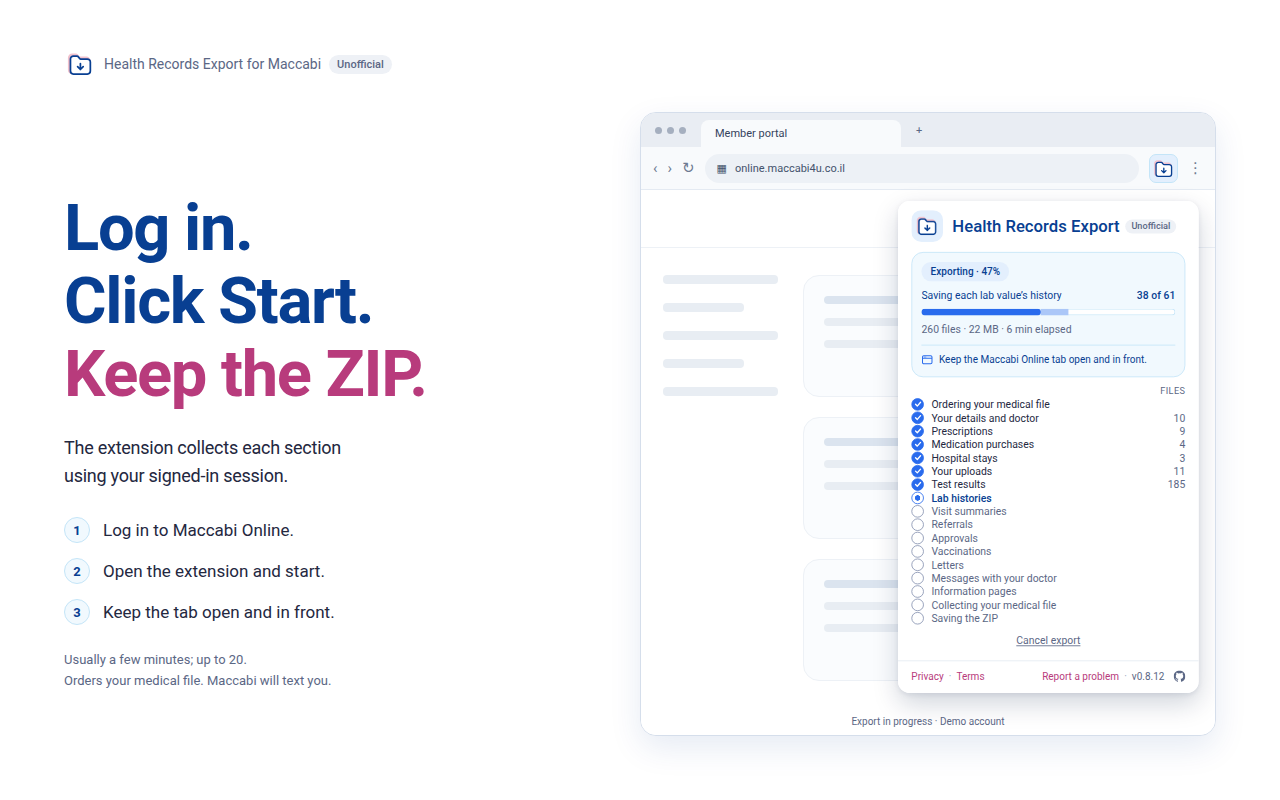
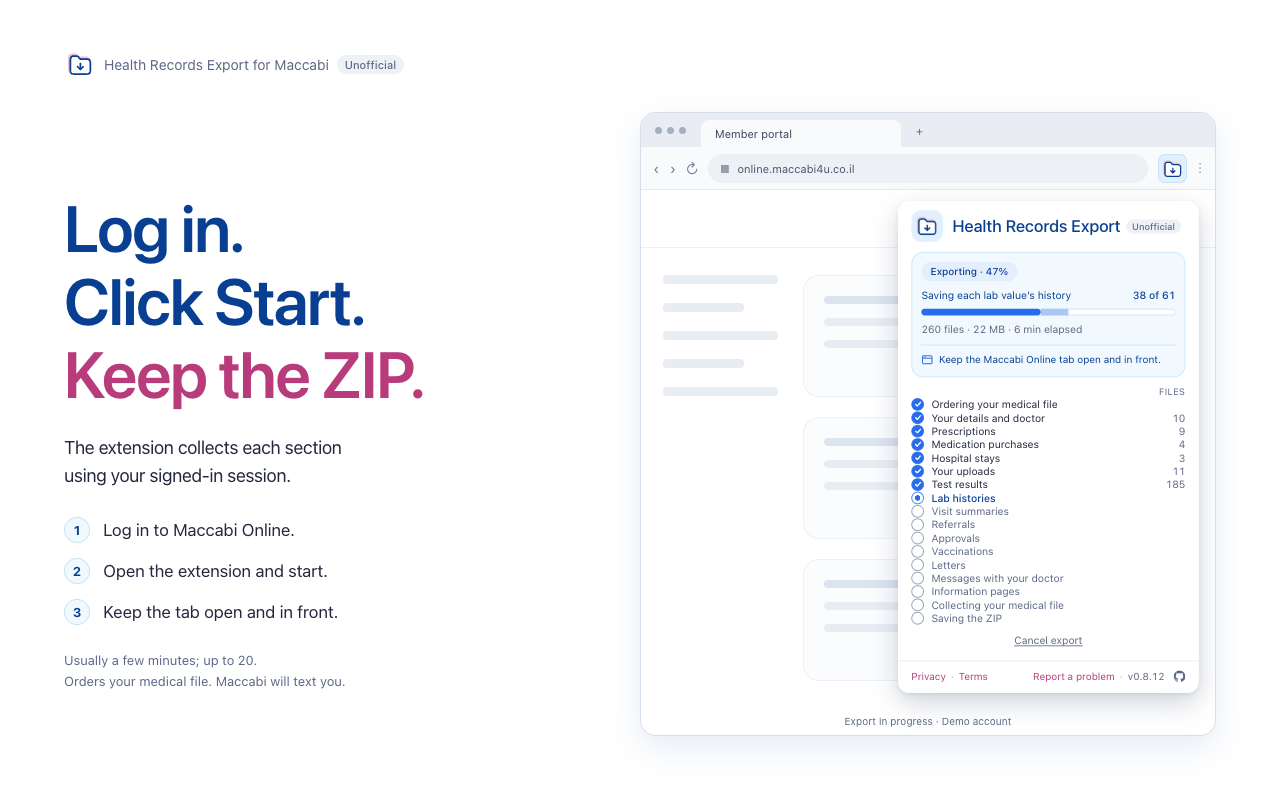
Draw the store images in the Mac system font
The listing images, icon, promo tiles and poster are now the ones rendered on
a Mac without Roboto, so their Roboto-first stacks fall back to San
Francisco: the chosen look. Linux can't draw that face, so the Store images
workflow, which no longer installs Roboto, only checks that a render works;
the docs and the store-media skill now say so, and that the ZIP to upload is
a Mac render, not the workflow's artifact. The video still renders with
Roboto.

diff --git a/CONTRIBUTING.md b/CONTRIBUTING.md
@@ -270,7 +270,7 @@ npm run icons          # hand-tuned public/icons/; the store icon is `npm run st
 
 `package` builds `dist/` first, and refuses a development build. `npm run store-assets`, `npm run release`,
 and the *Store images* workflow all generate the approved design into `store/assets/`. Inspect `store/assets/review.html`
-and use `store/assets/store-artwork.zip` (gitignored: written by each render, and kept as the *Store images* workflow's artifact) for its eight upload PNGs; `store-artwork.json` records dimensions and SHA-256
+and use `store/assets/store-artwork.zip` (gitignored: written by each render; upload one rendered on a Mac, not the Store images workflow's artifact) for its eight upload PNGs; `store-artwork.json` records dimensions and SHA-256
 hashes. `node scripts/check-store-assets.mjs` checks these against the PNGs. Named shots still work, including `icon`,
 `poster`, `og-site` and `social`. A render that includes a listing shot rewrites the bundle from all eight images, and stops with an error if one is missing.
 Updating listing images alone does not require a new extension package or version bump.
@@ -284,17 +284,17 @@ to the canonical assets.
 
 The image and video renderers build the local store stage with Vite and photograph it in headless Chrome. They need
 a local listening port, Node.js 22 or newer, installed dependencies, and Chrome, Chromium or Edge (`CHROME_PATH` overrides
-discovery). Roboto should be installed on the rendering machine for the intended typography; otherwise the system
-fallback changes pixels. The latest renderer enables the popup's reduced-motion styles and waits two animation frames
+discovery). The fonts installed on the rendering machine change the pixels, as the next paragraph says. The latest renderer enables the popup's reduced-motion styles and waits two animation frames
 before each capture. All eight latest PNGs matched byte for byte across two consecutive runs on 25 October 2026;
 the ZIP entries matched the exported files too. This check applies to the same browser, fonts and operating system,
 not to renders across different environments.
 
-The store images and video show the real popup with made-up states and need Roboto on the machine that draws them.
-Without it, run the *Store images* workflow from the Actions tab (or `gh workflow run store-assets.yml`, with `-f shots="start open"` for only some): it
-renders them on Linux with Roboto and pushes changed images to a `store-images/` branch. Open the compare
-link in the run summary to create a pull request, then wait for CI and merge it. The *Store video* workflow
-(`gh workflow run store-video.yml`) does the same for the video's picture, kept as the run's artifact and silent:
+The store images and video show the real popup with made-up states. The store images are rendered on a Mac without
+Roboto installed, so their text is in the macOS system face; Linux can't draw that, so commit images rendered there.
+The *Store images* workflow (`gh workflow run store-assets.yml`, with `-f shots="start open"` for only some) renders
+on Linux in the runner's own fonts and pushes changed images to a `store-images/` branch: it checks that a render
+works, and its branch is deleted, not merged. The video does want Roboto: the *Store video* workflow
+(`gh workflow run store-video.yml`) renders its picture on Linux with Roboto installed, kept as the run's artifact and silent:
 download it with `gh run download <run id> -n promo-video -D store/assets`, then `npm run store-video -- --remux`
 puts the soundtrack on it from your narration cache. [docs/store-listing.md](docs/store-listing.md)
 has everything to fill in on the store dashboard.

diff --git a/.claude/skills/store-media/SKILL.md b/.claude/skills/store-media/SKILL.md
@@ -9,25 +9,26 @@ Moved out of the root `CLAUDE.md` so it loads only for this work; the root keeps
 
 ## Rendering
 
-Before `store-assets` or `store-video`, install Roboto on the machine
-(`fonts-roboto` on Debian/Ubuntu, then `fc-cache -f`) and check `fc-list | grep -i roboto`: the renders photograph
-the popup, and without it they draw the fallback face. That is a font for the machine taking the pictures; the extension itself
-still never ships or fetches one. The latest image renderer uses the Roboto/system stack too; byte-for-byte
-reproducibility is only expected with the same browser, fonts and OS. Its static captures enable reduced motion
+The store images (`store-assets`) are rendered on a Mac **without** Roboto installed, so the Roboto-first stacks of
+the listing layouts and the popup fall back to the macOS system face (San Francisco): that is the chosen look. Check
+with `fc-list | grep -i roboto` or Font Book, and render elsewhere if this Mac has it. Linux has no San Francisco, so
+CI cannot reproduce these images. The video (`store-video`) still wants Roboto on the machine (`fonts-roboto` on
+Debian/Ubuntu, then `fc-cache -f`), as its workflow installs. Either way the font is only the machine's; the extension
+itself never ships or fetches one. Byte-for-byte reproducibility is only expected with the same browser, fonts and OS. Its static captures enable reduced motion
 and wait two animation frames, so the progress sheen and pulse cannot vary between shots.
 
 The approved listing images are the default for `npm run store-assets`, `npm run release`, and the *Store images*
 workflow. Canonical outputs are the eight PNGs in `store/assets/`, with `review.html`, `store-artwork.json` and
-`store-artwork.zip` (gitignored: written by each render, and kept as the *Store images* workflow's artifact). CI validates the bundle and uploads its ZIP and hash manifest as an artifact. The README hero uses
+`store-artwork.zip` (gitignored: written by each render; upload one rendered on a Mac, not the Store images workflow's artifact). CI validates the bundle and uploads its ZIP and hash manifest as an artifact. The README hero uses
 `store/assets/screenshot-1-ask.png`. Named shots include the five screenshots, `promo`, `marquee`, `icon`, `poster`,
 `og-site` and `social`; `npm run store-assets -- start open` updates only those shots, then refreshes the bundle.
 The proposal renderer and `--mock` flag are retired. `store/redesign/mock-review.html` preserves the historical
 comparison; the latest column links to canonical assets. See `store/redesign/README.md` and `docs/store-listing.md`.
 
-Without Roboto here, run the *Store images* workflow instead
-(`gh workflow run store-assets.yml`, optionally `-f shots="start open"`): it renders on Linux with Roboto and
-pushes changed images to a `store-images/` branch. Open the compare link in the run summary, wait for CI,
-and merge the pull request. The *Store video* workflow (`gh workflow run
+The *Store images* workflow (`gh workflow run store-assets.yml`, optionally `-f shots="start open"`) renders on Linux
+in the runner's own fonts (DejaVu Sans, which is wider) and pushes changed images to a `store-images/` branch: use it
+to check that a render works, not for the committed images, and delete its branch rather than merging it. The
+*Store video* workflow (`gh workflow run
 store-video.yml`) renders the video's picture there and keeps it as the run's artifact, with no sound: the narration is
 only in a maintainer's `.cache/narration/`, so download it to `store/assets/` and add the soundtrack with `--remux`.
 

diff --git a/docs/store-listing.md b/docs/store-listing.md
@@ -141,7 +141,7 @@ The existing store listing is not changed by generating files locally.
 | Global promo video | https://youtu.be/xcy8fo-PjHc | Existing optional video; its separate renderer is described below |
 
 Run `npm run store-assets` to recreate the eight listing PNGs, the video poster, and web/social previews.
-The command also writes `store/assets/review.html`, `store-artwork.json` and `store-artwork.zip` (gitignored: written by each render, and kept as the *Store images* workflow's artifact). The ZIP contains
+The command also writes `store/assets/review.html`, `store-artwork.json` and `store-artwork.zip` (gitignored: written by each render; upload one rendered on a Mac, not the Store images workflow's artifact). The ZIP contains
 only the eight listing PNGs. The release command and *Store images* workflow use the same renderer; CI also
 validates the bundle and offers its ZIP and hash manifest as a downloadable artifact. The old proposal renderer and
 `--mock` flag are retired. Use shot names to select outputs, e.g. `npm run store-assets -- marquee icon`.

diff --git a/store/redesign/README.md b/store/redesign/README.md
@@ -17,8 +17,8 @@ node scripts/check-store-assets.mjs
 
 The renderer builds the local Vite stage, serves it on localhost and captures HTML/CSS and SVG layouts in headless
 Chrome. Chrome, Chromium or Edge must be installed; `CHROME_PATH` overrides discovery. A restricted environment may
-require permission to listen on localhost and launch Chrome. Install Roboto on the rendering machine for the intended
-typography; the extension's Roboto/system fallback stack can otherwise change pixels. No fonts are fetched by the
+require permission to listen on localhost and launch Chrome. Render on a Mac without Roboto installed: the Roboto-first
+stacks then fall back to the macOS system face, which is the chosen look and which Linux CI cannot draw. No fonts are fetched by the
 extension, and no AI service, API key, login or real medical records are needed to regenerate the artwork.
 
 Rerender when the artwork's copy, illustration, layout, shared mark or popup changes. An unrelated extension release

diff --git a/docs/commands.md b/docs/commands.md
@@ -20,7 +20,7 @@ npm run store-video -- --remux  # new soundtrack only, fast
 ```
 
 `npm run store-assets` generates the approved design at the canonical `store/assets/` paths.
-Open `store/assets/review.html` to inspect it; `store/assets/store-artwork.zip` (gitignored: written by each render, and kept as the *Store images* workflow's artifact) contains the eight upload PNGs,
+Open `store/assets/review.html` to inspect it; `store/assets/store-artwork.zip` (gitignored: written by each render; upload one rendered on a Mac, not the Store images workflow's artifact) contains the eight upload PNGs,
 and `store-artwork.json` records their dimensions and SHA-256 hashes. The release command and *Store images*
 workflow use this renderer too. Named shots include `icon`, `poster`, `og-site` and `social`.
 
